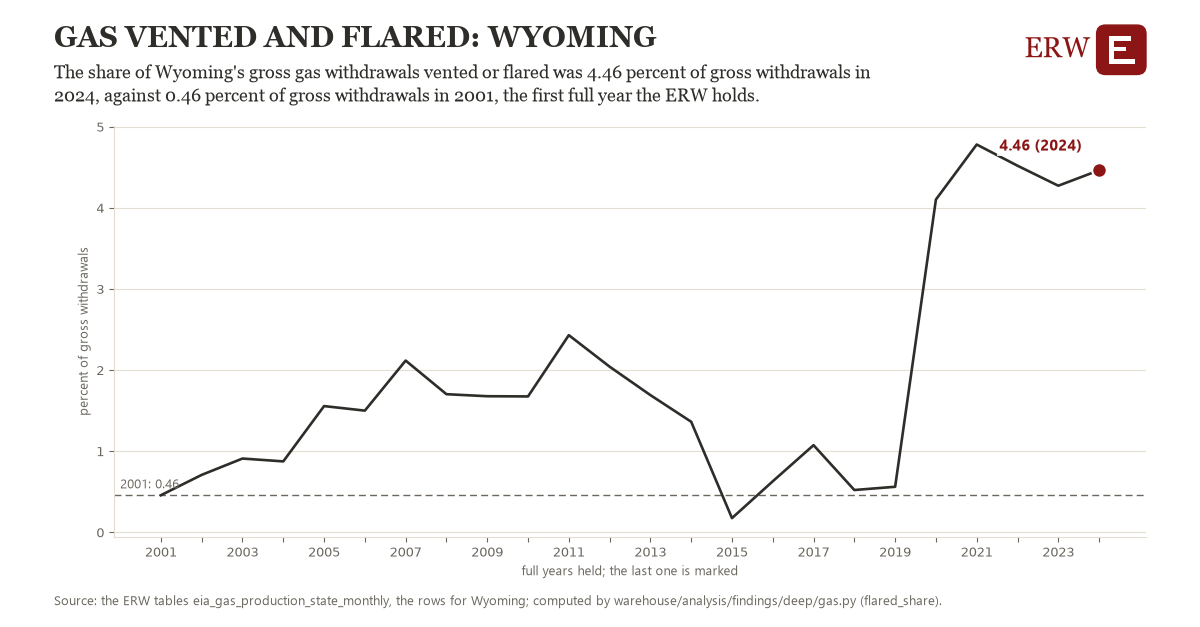
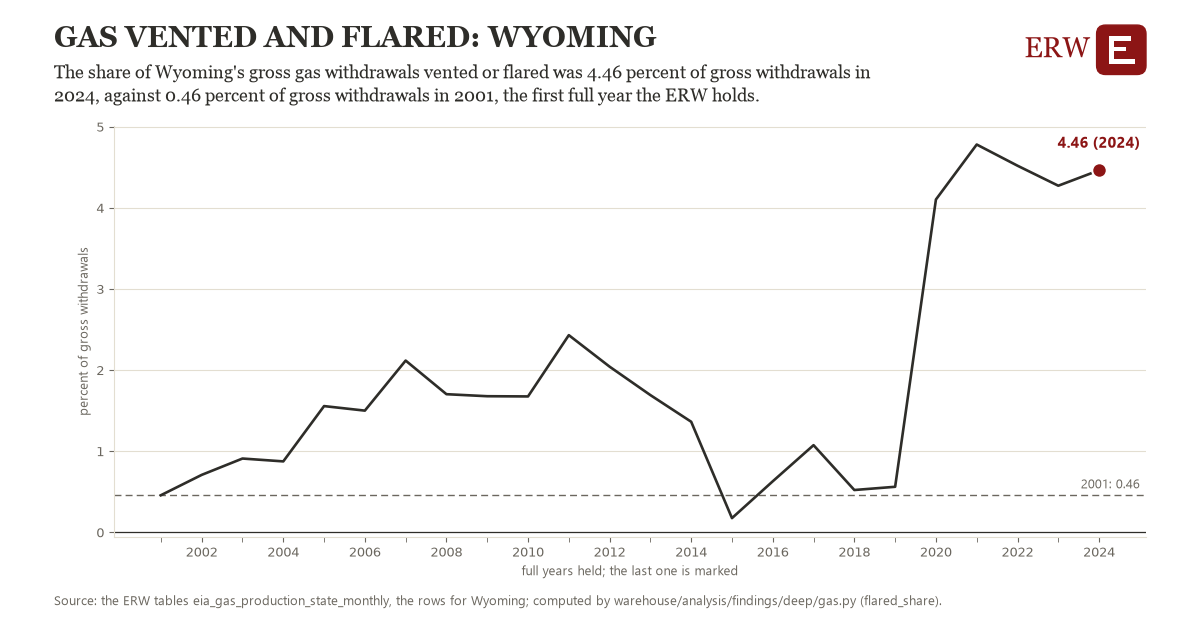
Session 9821: findings charts 251 to 260 drawn again (part 3); drafts stay drafts

diff --git a/docs/reviews/findings-charts-2026-11-20.md b/docs/reviews/findings-charts-2026-11-20.md
@@ -271,5 +271,15 @@ Energy Research Warehouse (ERW). Written by the desktop's fourth window, session
 | 248 | [tariffs_policy/net-metered-nem-us](https://github.com/SamuelEnrique/erw/blob/main/docs/findings/tariffs_policy/net-metered-nem-us.png) | 3 (passed the audit) | the first year's label (2013: 5,462) sat on the line | drawn again: label moved clear of the line; the image's figure 55,809 is the draft's |
 | 249 | [generation_pipeline/battery-hours-us-battery-hours](https://github.com/SamuelEnrique/erw/blob/main/docs/findings/generation_pipeline/battery-hours-us-battery-hours.png) | 3 (passed the audit) | the first year's label (2015: 0.53) sat on the line | drawn again: label moved clear of the line; the image's figure 2.86 is the draft's |
 | 250 | [oil_products_world/wog-oil-use-wog-usa](https://github.com/SamuelEnrique/erw/blob/main/docs/findings/oil_products_world/wog-oil-use-wog-usa.png) | 3 (passed the audit) | the marked year 2025 had no label on the axis | drawn again: axis labels counted back from the marked year; the image's figure 20,736 is the draft's |
+| 251 | [other_us/ev-share-ev-us](https://github.com/SamuelEnrique/erw/blob/main/docs/findings/other_us/ev-share-ev-us.png) | 3 (passed the audit) | nothing found | drawn again by the fixed code; the image's figure 1.94 is the draft's |
+| 252 | [events/covid-2020-mida](https://github.com/SamuelEnrique/erw/blob/main/docs/findings/events/covid-2020-mida.png) | 3 (passed the audit) | the marked figure (65,522 (2020-05-03)) sat on the line; the legend sat over the data | drawn again: label moved clear of the line; legend removed, each series named on its line in its own color; the marked day is the event year's lowest daily figure (65,522 MW), which the sentence, about the window's mean, does not state: drawn as stored, for Samuel's ruling |
+| 253 | [generation_pipeline/small-solar-ratio-state-dpv-us](https://github.com/SamuelEnrique/erw/blob/main/docs/findings/generation_pipeline/small-solar-ratio-state-dpv-us.png) | 3 (passed the audit) | nothing found | drawn again by the fixed code; the image's figure 2.1 is the draft's |
+| 254 | [other_us/ev-share-ev-ca](https://github.com/SamuelEnrique/erw/blob/main/docs/findings/other_us/ev-share-ev-ca.png) | 3 (passed the audit) | nothing found | drawn again by the fixed code; the image's figure 4.82 is the draft's |
+| 255 | [queues_deals_datacenters/hosting-jobs-jobs518-ca](https://github.com/SamuelEnrique/erw/blob/main/docs/findings/queues_deals_datacenters/hosting-jobs-jobs518-ca.png) | 3 (passed the audit) | the first year's label (2012: 70,508) sat on the line | drawn again: label moved clear of the line; the image's figure 123,859 is the draft's |
+| 256 | [tariffs_policy/net-metered-nem-ca](https://github.com/SamuelEnrique/erw/blob/main/docs/findings/tariffs_policy/net-metered-nem-ca.png) | 3 (passed the audit) | the first year's label (2013: 2,125) sat on the line | drawn again: label moved clear of the line; the image's figure 18,822 is the draft's |
+| 257 | [gas/flared-share-flare-wy](https://github.com/SamuelEnrique/erw/blob/main/docs/findings/gas/flared-share-flare-wy.png) | 3 (passed the audit) | the first year's label (2001: 0.46) sat on the line; no ink zero line (docs/brand.md, section 6), though zero is on the scale; the marked year 2024 had no label on the axis | drawn again: label moved clear of the line; ink zero line drawn; axis labels counted back from the marked year; the image's figure 4.46 is the draft's |
+| 258 | [gas/power-share-us-power-burn](https://github.com/SamuelEnrique/erw/blob/main/docs/findings/gas/power-share-us-power-burn.png) | 3 (passed the audit) | the first year's label (2001: 24.0) sat on the line; the marked figure (38.9 (2025)) sat on the line | drawn again: label moved clear of the line; the image's figure 38.9 is the draft's |
+| 259 | [oil_products_world/gulf-oil-gulf](https://github.com/SamuelEnrique/erw/blob/main/docs/findings/oil_products_world/gulf-oil-gulf.png) | 3 (passed the audit) | the first year's label (1996: 1,009) sat on the line; the marked year 2025 had no label on the axis | drawn again: label moved clear of the line; axis labels counted back from the marked year; the image's figure 1,948 is the draft's |
+| 260 | [trade/region-against-rn-cal](https://github.com/SamuelEnrique/erw/blob/main/docs/findings/trade/region-against-rn-cal.png) | 3 (passed the audit) | the marked figure (5.0 (2025)) sat on the line; no ink zero line (docs/brand.md, section 6), though zero is on the scale; missing years (2024) drawn as if one year apart | drawn again: label moved clear of the line; ink zero line drawn; years at their own places, the line broken over the missing years, each year a point; the image's figure 5.0 is the draft's |
 
-250 charts so far.
+260 charts so far.
